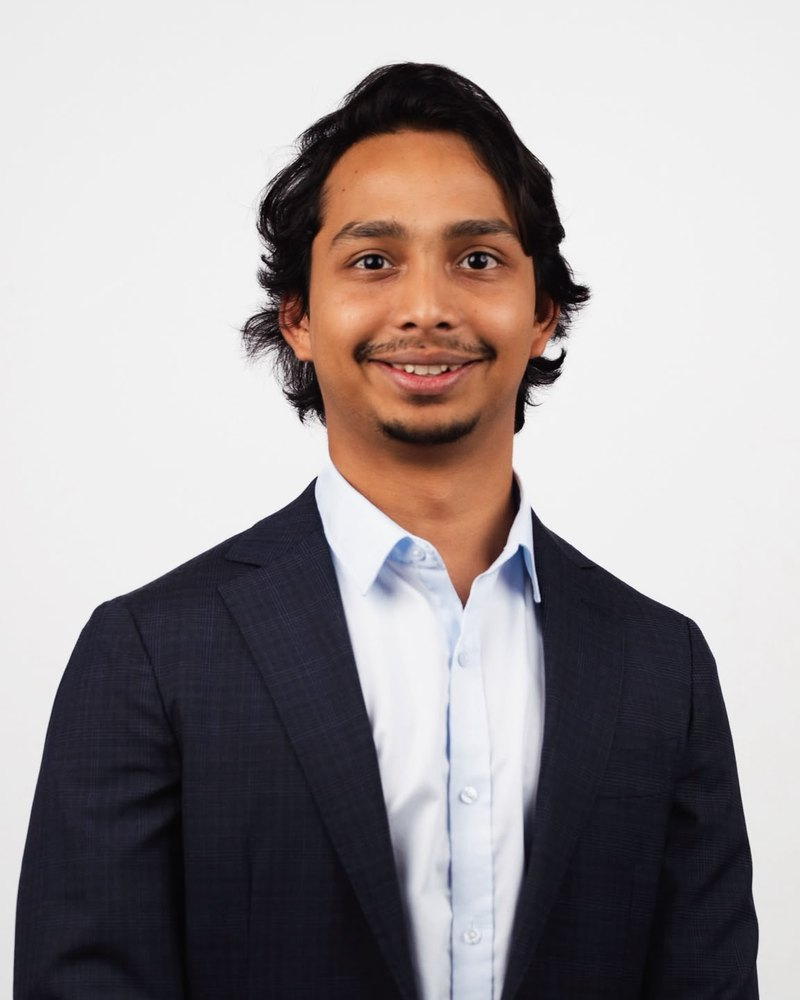
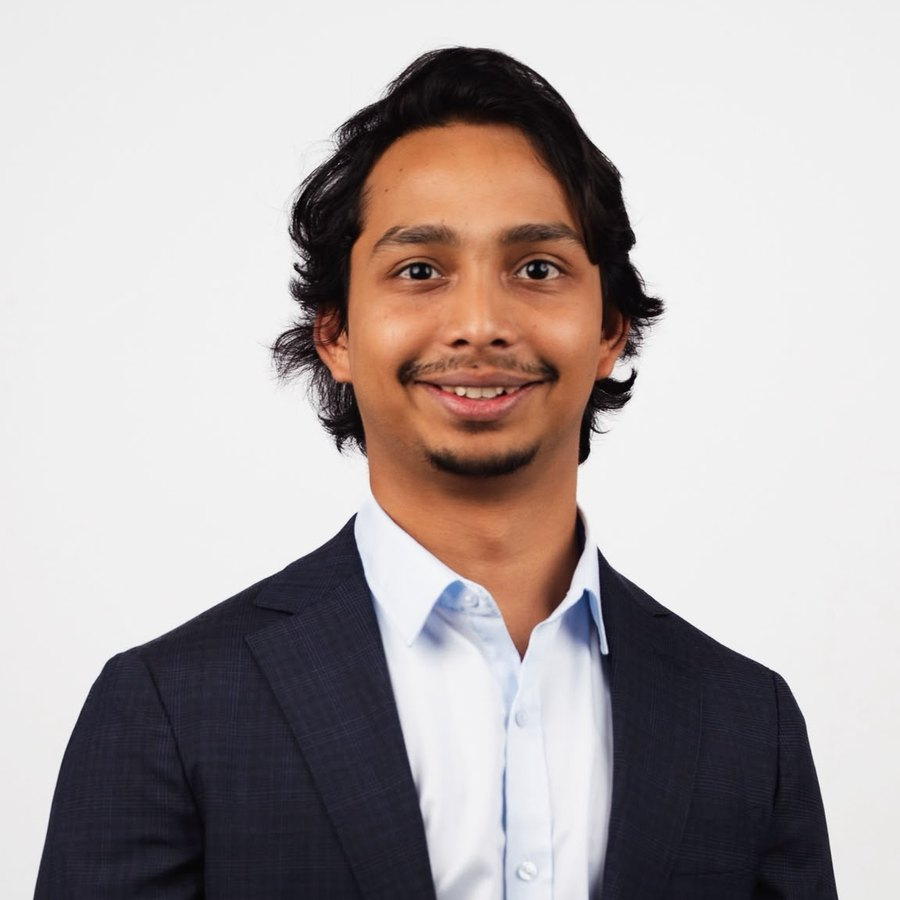
Square profile photo frame
Claude-Session: https://claude.ai/code/session_01QoCzAQkG4JDiuyPws6CcbK

diff --git a/index.html b/index.html
@@ -57,15 +57,15 @@
 
   /* portrait */
   .portrait-wrap{position:relative;justify-self:center;width:min(380px,100%)}
-  .portrait{position:relative;aspect-ratio:4/5;border-radius:200px 200px 24px 24px;overflow:hidden;
+  .portrait{position:relative;aspect-ratio:1/1;border-radius:24px;overflow:hidden;
      background:linear-gradient(160deg,#21385e,#0e1c33);border:1px solid rgba(255,255,255,.14);box-shadow:0 40px 80px -30px rgba(0,0,0,.6)}
   .portrait img{position:absolute;inset:0;width:100%;height:100%;object-fit:cover;z-index:1}
   .mono{position:absolute;inset:0;display:grid;place-items:center;font-family:var(--serif);font-size:120px;font-weight:400;color:rgba(230,194,122,.85);letter-spacing:-.04em}
-  .ring{position:absolute;inset:-14px;border-radius:214px 214px 34px 34px;border:1px solid rgba(230,194,122,.45);pointer-events:none}
+  .ring{position:absolute;inset:-14px;border-radius:34px;border:1px solid rgba(230,194,122,.45);pointer-events:none}
   .badge{position:absolute;z-index:2;background:rgba(255,255,255,.96);color:var(--ink);border-radius:14px;padding:12px 16px;box-shadow:0 18px 40px -16px rgba(0,0,0,.5);font-size:13px;line-height:1.35;animation:float 6s ease-in-out infinite}
   .badge b{display:block;font-family:var(--serif);font-size:24px;font-weight:500;color:var(--accent);line-height:1.1}
-  .badge.b1{left:-34px;bottom:70px}
-  .badge.b2{right:-26px;top:58px;animation-delay:-3s;display:flex;align-items:center;gap:10px}
+  .badge.b1{left:-34px;bottom:40px}
+  .badge.b2{right:-26px;top:-18px;animation-delay:-3s;display:flex;align-items:center;gap:10px}
   .dot{width:9px;height:9px;border-radius:50%;background:#2fb67c;box-shadow:0 0 0 4px rgba(47,182,124,.2)}
   @keyframes float{0%,100%{transform:translateY(0)}50%{transform:translateY(-8px)}}
 
@@ -307,7 +307,7 @@
     header.hero{padding:120px 0 110px}
     .hero-grid{grid-template-columns:1fr;gap:56px}
     .portrait-wrap{width:min(300px,80%)}
-    .badge.b1{left:-18px} .badge.b2{right:-14px}
+    .badge.b1{left:-18px;bottom:-22px} .badge.b2{right:-14px}
     .impact{grid-template-columns:1fr 1fr}
     .impact div:nth-child(3){border-left:none}
     .impact div:nth-child(n+3){border-top:1px solid var(--line)}
